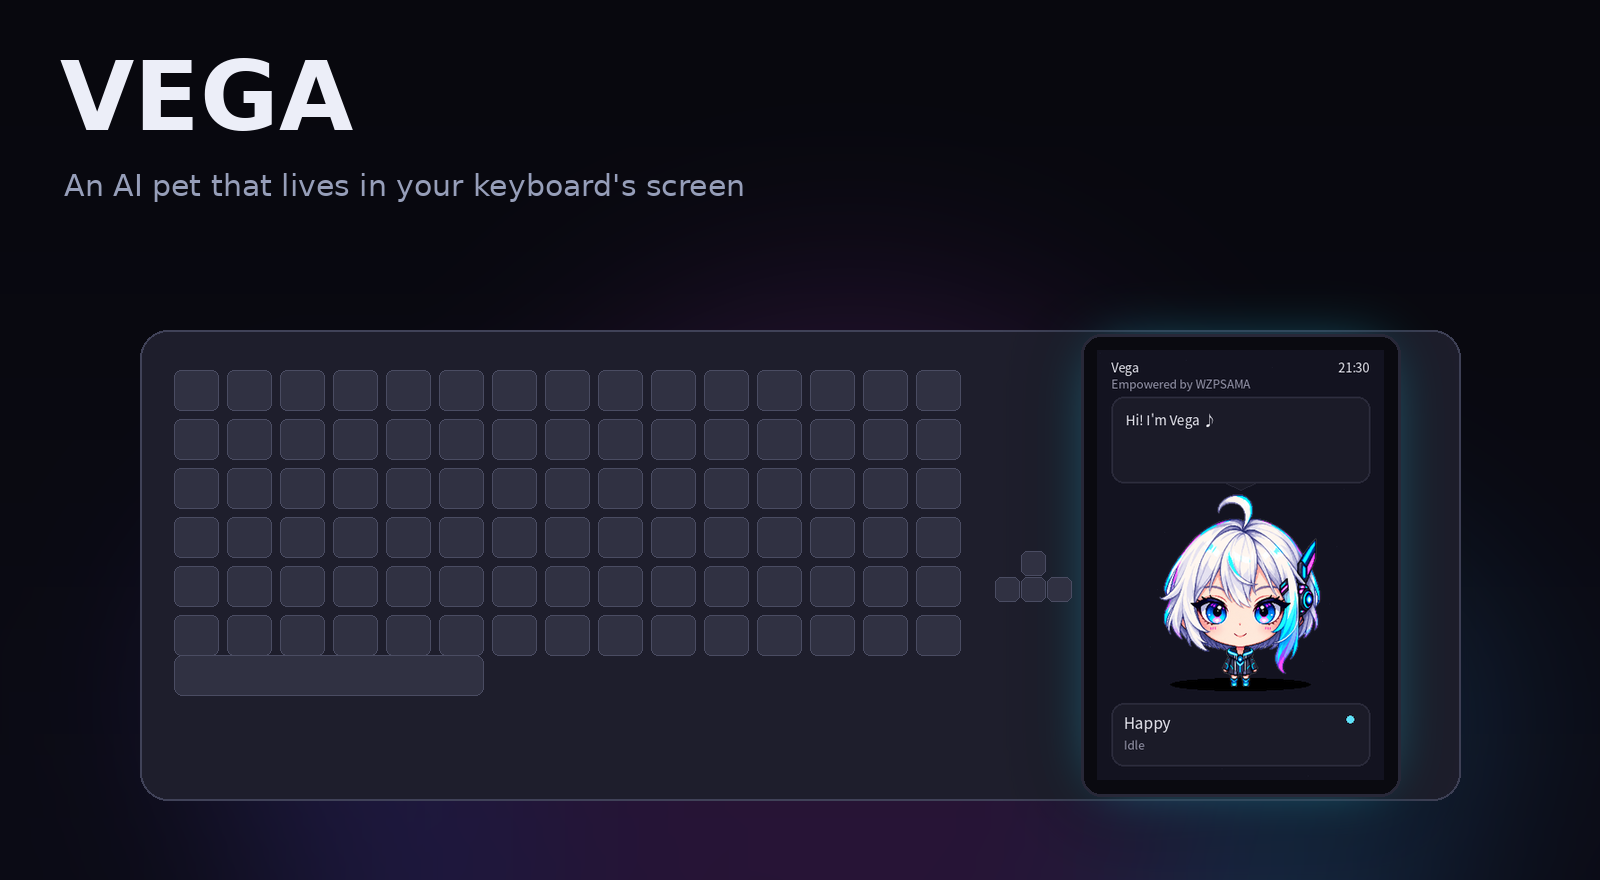
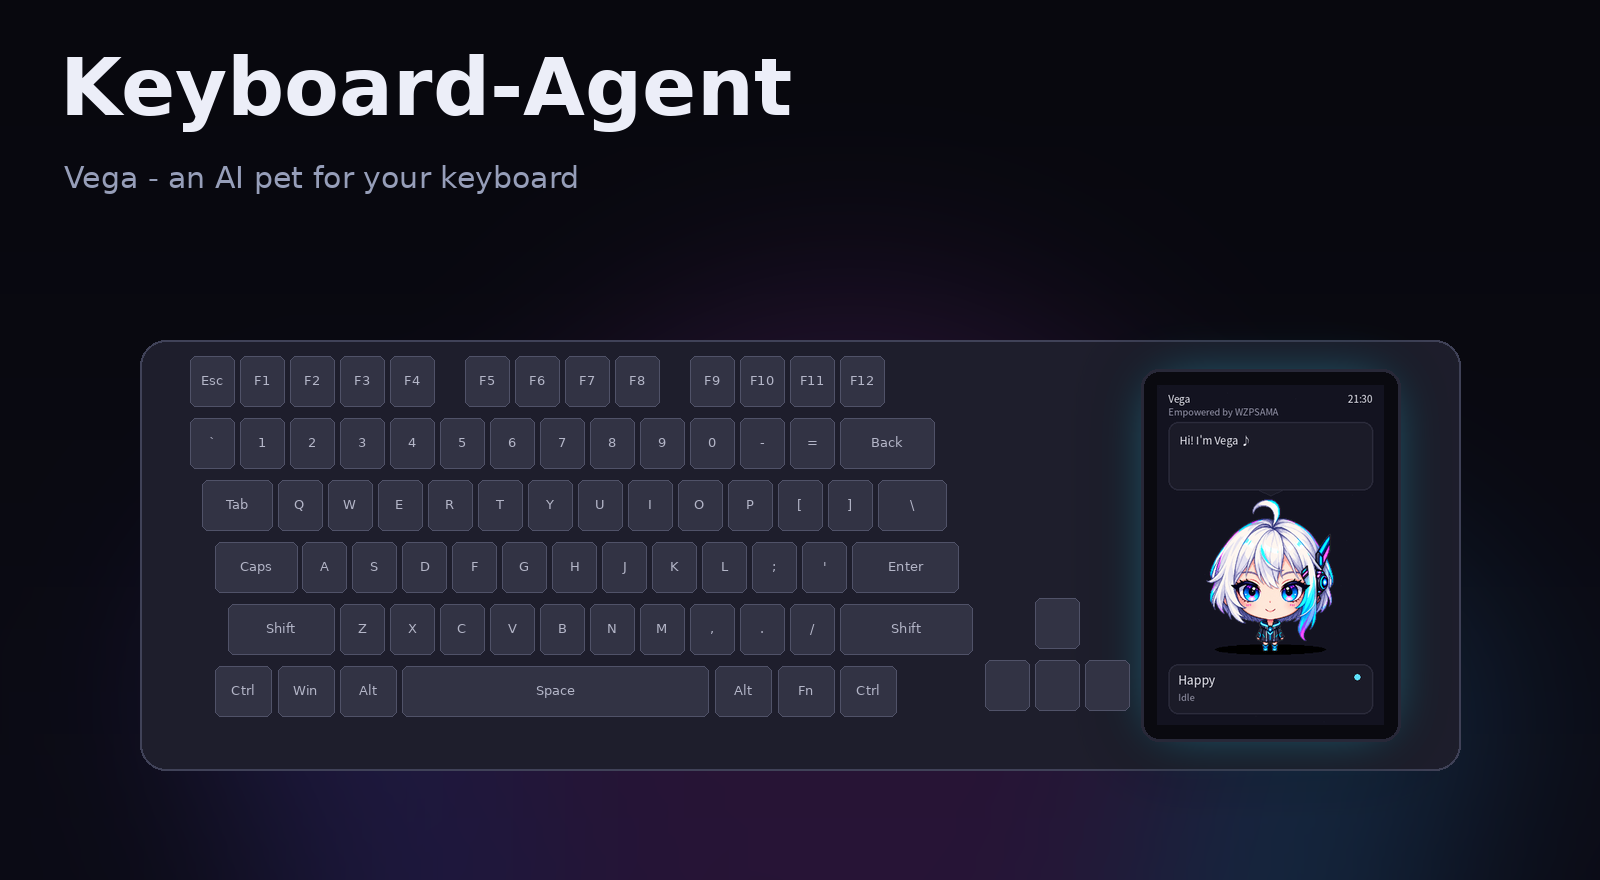
Keyboard-Agent: rename + interaction table + cry-trigger fix
- Rename project to Keyboard-Agent (README title, .bat scripts, hero)
- Add creative-interactions tables to README
- Fix delete-cry trigger: condition before rate-limit, 10s cooldown

diff --git a/win_agent.py b/win_agent.py
@@ -664,6 +664,8 @@ def main() -> None:
     ap = argparse.ArgumentParser(description="Windows 本地常驻 agent（离线）")
     ap.add_argument("--interval", type=float, default=DEFAULT_INTERVAL,
                     help="慢思考间隔（秒）")
+    ap.add_argument("--debug-keys", action="store_true",
+                    help="在控制台打印退格/删除键及其 4s/60s 计数，用于排查哭泣触发")
     args = ap.parse_args()
 
     # 单实例锁：两个 agent 同时抢 COM3 会让 SerialPortTool 打不开串口、
@@ -740,6 +742,11 @@ def main() -> None:
             while _raw_keys:
                 vk, ctrl, t = _raw_keys.pop(0)
                 ctx.keys.add(vk, ctrl, t)
+                if args.debug_keys and vk in (keys.VK_BACK, keys.VK_DELETE):
+                    n = time.time()
+                    print(f"[debug-keys] {'Backspace' if vk == keys.VK_BACK else 'Delete'} "
+                          f"(4s={ctx.keys.backspace_count(n, 4)}, "
+                          f"60s={ctx.keys.backspace_count(n, 60)})")
 
             # 3) 定时逻辑（看向恢复等）
             now = time.time()

diff --git a/agent/interactions.py b/agent/interactions.py
@@ -67,12 +67,14 @@ class DeleteCry(Interaction):
     group = "keyboard"
 
     def __init__(self):
-        self._rl = RateLimit(150.0)
+        self._rl = RateLimit(10.0)   # 冷却 10s：哭动画播完（4s）后再等几秒即可重触发
 
     def on_tick(self, now, ctx):
-        if self._rl.ready(now) and (
-                ctx.keys.backspace_count(now, span=4) >= 3       # 快速连删
-                or ctx.keys.backspace_count(now, span=60) >= 20):  # 持续改稿
+        # 先判删除信号、后过限频。RateLimit.ready() 每次放行会「消耗」一次机会，
+        # 若放前面，限频机会会被没在删除的 tick 白白用掉 → 哭几乎触发不了。
+        if (ctx.keys.backspace_count(now, span=4) >= 3            # 快速连删
+                or ctx.keys.backspace_count(now, span=60) >= 20) \
+                and self._rl.ready(now):                           # 持续改稿
             ctx.say("呜呜呜 主人在删什么鸭", mood="cry", look=(-5, -5),
                     sub="别删了嘛～")
             print("[delete_cry] 连删哭泣")

diff --git a/README.md b/README.md
@@ -1,4 +1,4 @@
-# Vega — an AI pet that lives in your keyboard
+# Keyboard-Agent — an AI pet that lives in your keyboard
 
 Turn the 3.98" IPS screen (320×480) of the **AULA L99** mechanical keyboard into
 the face of a cyberpunk AI pet — **Vega**, a silver-haired, red-eyed girl who
@@ -74,18 +74,64 @@ SerialPortTool → COM3). No mini PC, no SSH relay.
 Action animations only appear in the transient "speak / react" GIFs; the
 directional look sprites are unaffected.
 
-## Interactions (28 in `agent/interactions.py`)
+## Interactions
 
-- **Keyboard** — spacebar mashing, Ctrl+V crunch, backspace crying, Caps Lock
-  reminder, high WPM, game watching, app switching, away-and-back.
-- **Foreground app** — greets you in IDE / browser / office / game / terminal /
-  media; auto-silences during meetings; protects flow; eye-care during binge watch.
-- **System** — cares about high CPU / RAM, welcomes you back after load drops,
-  says goodnight on lock.
-- **Music / weather / guessing** — groove on song change, umbrella / coat
-  reminders, teasing by window title.
-- **Companionship** — milestone greetings, intimacy level-up, late-night care,
-  midnight care, late-night doze, meal / weekend / anniversary.
+28 hand-crafted reactions in `agent/interactions.py`. Highlights:
+
+### Keyboard
+
+| Situation | Vega… |
+|---|---|
+| You mash the spacebar | gets excited and jumps along |
+| You hammer Ctrl+V | teases you about "moving bricks again" |
+| You delete a lot while editing | bursts into exaggerated tears toward the delete key |
+| Caps Lock is left on while you type | gently points it out |
+| You type really fast | cheers your hand speed — or tells you to calm down |
+| You start gaming | turns into a spectator and roots for you |
+| You frantically flip between windows | offers to help you find whatever you lost |
+| You come back after a long break | welcomes you home |
+
+### Foreground app
+
+| Situation | Vega… |
+|---|---|
+| You switch to IDE / browser / office / game / terminal / media | greets you in that app's mood |
+| You join a meeting | goes quiet and silently keeps you company |
+| You game during work hours | catches you slacking off |
+| You work late in the IDE | urges you to rest |
+| You stay focused in the IDE | enters "flow mode" and stops interrupting |
+| You binge videos for a long stretch | reminds you to rest your eyes |
+| Your meeting ends | welcomes you back |
+
+### System
+
+| Situation | Vega… |
+|---|---|
+| The CPU / RAM runs hot | worries about the machine |
+| The load settles back down | reports that it "cooled down" |
+| You lock the screen | says goodbye |
+
+### Music · weather · guessing
+
+| Situation | Vega… |
+|---|---|
+| You start or change a song | grooves along and rates your taste |
+| It rains or snows | reminds you about an umbrella / a warm coat |
+| Morning | reads you the day's weather |
+| You open a familiar app | guesses what you're up to (without ever reading titles aloud) |
+
+### Companionship
+
+| Situation | Vega… |
+|---|---|
+| A milestone together (7 / 30 / 100 days) | celebrates |
+| Her intimacy level rises | says she feels closer to you |
+| You stayed up late last night | asks if you've had your coffee |
+| You're up past midnight | worries about you in real time |
+| Late at night, you step away | yawns and dozes off (eye mask + floating z's) |
+| Lunchtime | reminds you to eat |
+| Friday evening | wishes you a happy weekend |
+| Monthly anniversary | celebrates another month together |
 
 Each interaction declares a `priority` (high preempts / med / low) and a `group`
 (mutex groups like `"keyboard"`), arbitrated by `AgentContext.say` to avoid spam.
